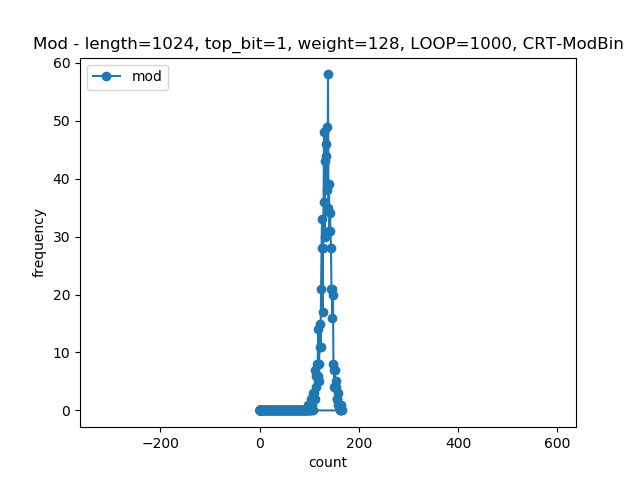
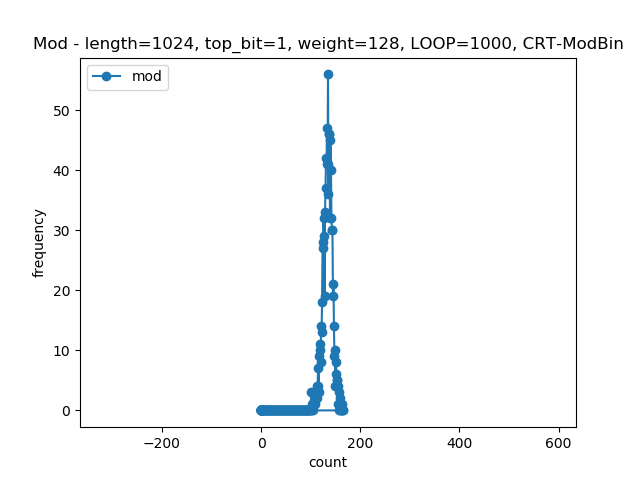
count_plottingの実装. 最終program

diff --git a/main.py b/main.py
@@ -1,25 +1,27 @@
 #
 # 定数一覧
 #
-#p = 269
-#q = 271
-p = 1683317
+p = 269
+q = 271
+#p = 1683317
+#q = 6700417
+
 #p = 9999973
 #p = 6025133
 #q = 2146159
 #q = 1289513
 #q = 8621749
-q = 6700417
+#q = 6700417
 #q = 9999991
 #p = 5558412344949242904184865507489098593977983354369530787913785052487371206079832165383623122213760074893780289221749182492747515894164520790162347
 #q = 44637391102161795008757921775090482668312353724576821546443671594895299397111991787599057730181131126908877702932386583084072618810692739612615631
 
 N = p * q
 phi_N = (p-1)*(q-1) # Nのオイラー数
-Loop_times = 1000 # ループ回数
+Loop_times = 10000 # ループ回数
 d_length = 1024 # dの鍵長
 d_top_bit = 1 # dにおける1の最上位ビット
-d_weight = 128 # dの重み
+d_weight = 1000 # dの重み
 
 
 #
@@ -52,8 +54,9 @@ if __name__ == '__main__':
     countMM_list = []
     countMC_list = []
     countMM_MC_list = []
-    countNG_list = []
-    #large_C_list = []
+    countNG_MM_list = []
+    countNG_MC_list = []
+    large_C_list = []
 
     print('\n\n\n********* p = {0}, q = {1}, N = {2}, phi_n = {3} ********\n'.format(p, q, N, phi_N))
 
@@ -68,6 +71,7 @@ if __name__ == '__main__':
     for i in range(0, Loop_times):
         # 以下, 鍵と暗号文の設定
         c = random.randint(1, N-1) #(1, N-1)
+        #c = 6929140641125
         #c = 13
         #d, e = random.choice(set_array)
         d = key.make_d(d_length, d_top_bit, d_weight)
@@ -82,6 +86,11 @@ if __name__ == '__main__':
         #d = 144158195593448605833804358266959731071319524602506883655484058320858197715337147221541236215995256052433774784893470051901675638209433372179900041158152554361983763960343665324874540181999367855835609860134390778783899662849805853369844243552402213219357445415050466245170450596556905770235758017088277438463
         #d = 133882584169402263649273269380196608150084375269146243075496885327405606895985408568168074590228694708438736519641709599822579193115157935449659948346845017681175549217934255050505731490489216233723387151881486768711240179550970803743221393089463044661701791371054424648342246977177087977856380921510782107615
         #d = 89890143019078095666205291519192456199494286740069204913245222910175469067352905557250874673542291519764568367690661504881757821856674244313802393186064887816981967011575839272828011803696604070384573895899003090207346702274748477045360023825244474240081997951823651945005117885273906197385377692060280309872
+        #d = 179769313486231550846377820112651619934450204046286207089508497640609636080136379993475607411279856471548734596191771850457170532144305191108817379111947852937804676159408642833589618669094281927243886543216063460892657915213572256793106748888238068024466511814056459351928721043252931840952970109551898525693
+        #d = 138077524384358897387044254528942666865362436963425081806222678029623527212561397169625919256841085997842460692685629820335432379563877502861077662100645851747408164039505064751503719854570729630741324273793686789643069754389888125919913610491927011554612571257339014291317914843276351034098443218764569772032
+        #d = 112399902876706645855193200215846797377686746602348093309395081305273711708872277912471569972950225871079503530829845264090289742903812768541381031778883678678641113130026814629247250025509579187903678182812889146989970235966832273151062245438395886319290591445432792632323908362447250818793593858283557355522
+        #d = 102292777480667301538680215936936970283092621829031321200241989331682699365974716872354801193947415645909294390183956243605147184376659696804092413123017374096080271856608472255086366623878981317181944936395399158744668440601249710010755921860415444235147513673664907034438157378610303883773088414762812422029
+        d = 179769313486230293476729321456568711106334152553137915895549523442135975529688892045243765355877820600277606527886009475314273959881378474590711686871215518410475081291639017048244081934993792064218187859314222021261959843396508002327741826742350432873271262317803816765741246938839638072935076868657199972351
         print('\n\n************* {0}回目 ***************'.format(i+1))
         print('******** c = {0} , d = {1}, {2}  ********\n'.format(c, bin.binary_d(d), d))
         #print('******** c = {0} , d = {1}, {2} , e = {3} ********\n'.format(c, bin.binary_d(d), d, e))
@@ -106,14 +115,16 @@ if __name__ == '__main__':
 
         # 以下Mod_Bin
         print('\n************* Mod_bin *************')
-        m2, mod_count2, mult_count2, countMM, countMC, countNG = mon.mod_bin(c, d, N)
+        m2, mod_count2, mult_count2, countMM, countMC, countNG_MM, countNG_MC = mon.mod_bin(c, d, N)
         modbin_mod_count_list.append(mod_count2)
         modbin_mult_count_list.append(mult_count2)
         modbin_sum_count_list.append(mod_count2 + mult_count2)
         countMM_list.append(countMM)
         countMC_list.append(countMC)
         countMM_MC_list.append(countMM + countMC)
-        countNG_list.append(countNG)
+        countNG_MM_list.append(countNG_MM)
+        countNG_MC_list.append(countNG_MC)
+        #large_C_list.append(large_C)
         bin.average(modbin_mod_count_list)
         bin.average(modbin_mult_count_list)
         bin.average(modbin_sum_count_list)
@@ -121,8 +132,11 @@ if __name__ == '__main__':
         bin.average(countMM_list)
         print('countMC ')
         bin.average(countMC_list)
-        print('countNG ')
-        bin.average(countNG_list)
+        print('countNG_MM ')
+        bin.average(countNG_MM_list)
+        print('countNG_MC ')
+        bin.average(countNG_MC_list)
+
 
         #print('c = {0}, d = {1}, N = {2}'.format(c, d, N))
         print('mod_bin(c, d, N) = {0}'.format(m2))
@@ -137,6 +151,7 @@ if __name__ == '__main__':
 
 
         # 以下CRT-Modbin
+        """
         print('\n************* CRT-Mod_bin *************')
         m3, mod_count3, mult_count3 = crt.crt(c,d,N,p,q)
         crt_mod_count_list.append(mod_count3)
@@ -161,6 +176,8 @@ if __name__ == '__main__':
             correct += 1
 
         """
+
+        """
         print('\n********** 暗号化(一致性のチェック) ***********')
         print('m = {0}, e = {1}, N = {2}'.format(m, e, N))
         c, _, _ = bin.binary_method(m, e, N)
@@ -171,8 +188,8 @@ if __name__ == '__main__':
         print('CRT-ModBin(m, e, N, p, q) = {0}'.format(c))
         print('暗号文 c = {0}\n\n'.format(c))
         """
-    print('correct: {0}'.format(correct))
-    print('crt_odd: {0}'.format(crt_odd))
+    #print('correct: {0}'.format(correct))
+    #print('crt_odd: {0}'.format(crt_odd))
 
     #print('countMM_list: {0}'.format(countMM_list))
     #print('countMC_list: {0}'.format(countMC_list))
@@ -181,9 +198,15 @@ if __name__ == '__main__':
     countMM_list.sort()
     countMC_list.sort()
     countMM_MC_list.sort()
+    #large_C_list.sort()
+    #mon.MM_list.sort()
+    #mon.MC_list.sort()
     plot.count_plotting(countMM_list)
     plot.count_plotting(countMC_list)
     plot.count_plotting(countMM_MC_list)
+    #plot.count_plotting(large_C_list)
+    #plot.count_plotting(mon.MM_list)
+    #plot.count_plotting(mon.MC_list)
 
 
     """

diff --git a/montgomery.py b/montgomery.py
@@ -18,7 +18,11 @@ R_2 = R*R % N
 
 countMM = 0
 countMC = 0
-countNG = 0
+countNG_MM = 0
+countNG_MC = 0
+
+MM_list = []
+MC_list = []
 
 #
 # N*(N') mod R = -1となるN'を返す.
@@ -59,7 +63,8 @@ def MR(T, mod_count, mult_count, N_dash, N):
 
     global countMM
     global countMC
-    global countNG
+    global countNG_MM
+    global countNG_MC
     #global flag
     #print('N: {0}'.format(N))
     array_N = bin.binary_d(N)
@@ -90,24 +95,28 @@ def MR(T, mod_count, mult_count, N_dash, N):
     if m_2 <= N:
         #print('MRにおいてmod_countを余分にインクリメントしませんでした.\n')
         #print('@@@@@@@ flag = {0}'.format(flag))
-        countNG += 1
+        #countNG += 1
         #print('NO:                countNG = {0}'.format(countNG))
         if flag == 1:
-            countNG += 0
+            countNG_MM += 1
             #print('NO:                countNG = {0}'.format(countNG))
             #print('')
-
+        else:
+            countNG_MC += 1
+        #print('余分に剰余計算しなかった結果 = {0}'.format(m_2))
         return m_2, mod_count, mult_count
     else:
-        #print('MRにおいてmod_countを余分にインクリメントしました.')
+        #print('MRにおいてmod_countを余分にインクリメントしました. m_2 = {0}'.format(m_2))
         """
         質問その3：m_2 > Nのとき, mod_countを1インクリメントすべきかどうか.
         """
         if flag == 1:
             countMM += 1
+            #print('```````````````````````````countMM:  m_2 = m_2 - N = {0} - {1} = {2}\n'.format(m_2, N, m_2-N))
             #print('YES: countMM={0}'.format(countMM))
         else:
             countMC += 1
+            #print('///////////////////////////countMC:  m_2 = m_2 - N = {0} - {1} = {2}\n'.format(m_2, N, m_2-N))
             #print('YES: countMC={0}'.format(countMC))
 
         mod_count += 1
@@ -121,11 +130,15 @@ def mod_bin(c, d, N):
 
     global countMM
     global countMC
-    global countNG
+    global countNG_MM
+    global countNG_MC
+    global MM_list
+    global MC_list
 
     countMM = 0
     countMC = 0
-    countNG = 0
+    countNG_MM = 0
+    countNG_MC = 0
 
     array_N = bin.binary_d(N)
     #print('\n\narray_N = {0}'.format(array_N))
@@ -157,12 +170,14 @@ def mod_bin(c, d, N):
         #print('MM = {0}'.format(mm))
         #print('MR(M*M)の実行>>>')
         large_M, mod_count, mult_count = MR(mm, mod_count, mult_count, N_dash, N)
+        #MM_list.append(large_M // 100000000000)
         #print('MR({1}) large_M={0}'.format(large_M, mm))
         if array_d[i] == 1:
             mc, mult_count = bin.multiply(large_M, large_C, mult_count)
             #print('MC = {0}'.format(mc))
             #print('MR(M*C)の実行>>>')
             large_M, mod_count, mult_count = MR(mc, mod_count, mult_count, N_dash, N)
+            #MC_list.append(large_M // 100000000000)
             #print('MR({1}) large_M={0}'.format(large_M, mc))
     #print('MR(M)の実行>>>')
     bin.flag = 0
@@ -171,8 +186,9 @@ def mod_bin(c, d, N):
 
     print('countMM = {0}'.format(countMM))
     print('countMC = {0}'.format(countMC))
-    print('countNG = {0}'.format(countNG))
+    print('countNG_MM = {0}'.format(countNG_MM))
+    print('countNG_MC = {0}'.format(countNG_MC))
 
-    return m, mod_count, mult_count, countMM, countMC, countNG
+    return m, mod_count, mult_count, countMM, countMC, countNG_MM, countNG_MC
 
 #N_dash = mod_equal_minus_1(N, R)

diff --git a/crt_modbin.py b/crt_modbin.py
@@ -96,10 +96,10 @@ def crt(c,d,N,p,q):
     print('d_q = d % (q-1) = {0} % {1} = {2}'.format(d, q-1, d_q))
     print('d_qの2進数表現 = {0}'.format(bin.binary_d(d_q)))
 
-    m_p, mod_count1, mult_count1, _, _, _ = mon.mod_bin(c_p, d_p, p)
+    m_p, mod_count1, mult_count1, _, _, _, _ = mon.mod_bin(c_p, d_p, p)
     #print('(c_p)**(d_p) mod p = {0}'.format(m_p))
 
-    m_q, mod_count2, mult_count2, _, _, _ = mon.mod_bin(c_q, d_q, q)
+    m_q, mod_count2, mult_count2, _, _, _, _ = mon.mod_bin(c_q, d_q, q)
     #print('(c_q)**(d_q) mod q = {0}'.format(m_q))
 
     mod_count += (mod_count1 + mod_count2)

diff --git a/plot.py b/plot.py
@@ -155,4 +155,5 @@ def count_plotting(list):
     plt.plot(x_list, y_list)
     plt.xlabel('x')
     plt.ylabel('y')
+    #plt.ylim(0, 130)
     plt.show()
